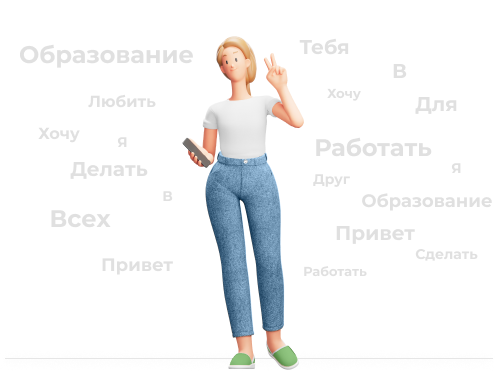
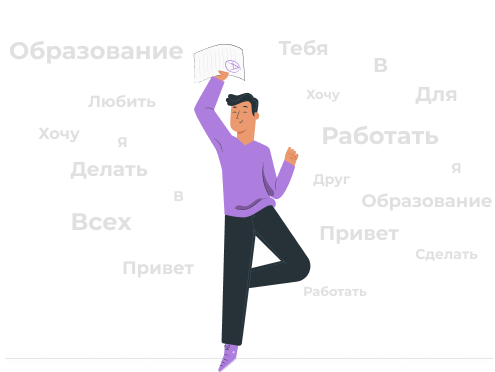
feat: for urfu stand

diff --git a/src/core/data.ts b/src/core/data.ts
@@ -3,13 +3,7 @@ import HelloSignVideo from "../assets/video/ExhibitionStand/Привет.mp4"
 import ISignVideo from "../assets/video/ExhibitionStand/Я.mp4"
 import LoveSignVideo from "../assets/video/ExhibitionStand/Люблю.mp4"
 import YouSignVideo from "../assets/video/ExhibitionStand/Тебя.mp4"
-import WantSignVideo from "../assets/video/ExhibitionStand/Хочу.mp4"
-import WorkSignVideo from "../assets/video/ExhibitionStand/Работаю.mp4"
-import InSignVideo from "../assets/video/ExhibitionStand/В.mp4"
-import AllSignVideo from "../assets/video/ExhibitionStand/Всех.mp4"
-import EduSignVideo from "../assets/video/ExhibitionStand/Образование.mp4"
-import DoSignVideo from "../assets/video/ExhibitionStand/Сделать.mp4"
-import AccessSignVideo from "../assets/video/ExhibitionStand/Доступный.mp4"
+import FriendSignVideo from "../assets/video/ExhibitionStand/Друг.mp4"
 
 export type taskType = "SelectWord" | "SelectGIFByWord" | "MatchWordAndGIF"
 
@@ -28,75 +22,32 @@ export const StartThemeWords: Word[] = [
         gifSource: HelloSignVideo,
     },
     {
-        id: 2,
+        id: 1,
         text: "Я",
         recognitionText: 'я',
         // gifSource: "https://ren-design.ru/api/teaching-rsl/1.0/video/I.mp4",
         gifSource: ISignVideo,
     },
     {
-        id: 3,
+        id: 2,
         text: "Любить",
         recognitionText: 'любовь',
         // gifSource: "https://ren-design.ru/api/teaching-rsl/1.0/video/Love.mp4",
         gifSource: LoveSignVideo,
     },
     {
-        id: 4,
+        id: 3,
         text: "Тебя",
         recognitionText: 'ты',
         // gifSource: "https://ren-design.ru/api/teaching-rsl/1.0/video/You.mp4",
         gifSource: YouSignVideo,
     },
-
     {
-        id: 5,
-        text: "Хочу",
-        recognitionText: 'хотеть',
+        id: 4,
+        text: "Друг",
+        recognitionText: 'друг',
         // gifSource: "https://ren-design.ru/api/teaching-rsl/1.0/video/You.mp4",
-        gifSource: WantSignVideo,
-    },
-    {
-        id: 6,
-        text: "Сделать",
-        recognitionText: 'делать',
-        // gifSource: "https://ren-design.ru/api/teaching-rsl/1.0/video/You.mp4",
-        gifSource: DoSignVideo,
-    },
-    {
-        id: 7,
-        text: "Образование",
-        recognitionText: 'образовать',
-        // gifSource: "https://ren-design.ru/api/teaching-rsl/1.0/video/You.mp4",
-        gifSource: EduSignVideo,
-    },
-    {
-        id: 9,
-        text: "Всех",
-        recognitionText: 'всё',
-        // gifSource: "https://ren-design.ru/api/teaching-rsl/1.0/video/You.mp4",
-        gifSource: AllSignVideo,
-    },
-    {
-        id: 10,
-        text: "Работаю",
-        recognitionText: 'работать',
-        // gifSource: "https://ren-design.ru/api/teaching-rsl/1.0/video/You.mp4",
-        gifSource: WorkSignVideo,
-    },
-    {
-        id: 11,
-        text: "В",
-        recognitionText: 'в',
-        // gifSource: "https://ren-design.ru/api/teaching-rsl/1.0/video/You.mp4",
-        gifSource: InSignVideo,
-    },
-    {
-        id: 12,
-        text: "Доступным",
-        recognitionText: 'открывать',
-        // gifSource: "https://ren-design.ru/api/teaching-rsl/1.0/video/You.mp4",
-        gifSource: AccessSignVideo,
+        gifSource: FriendSignVideo,
     },
 ]
 
@@ -104,17 +55,7 @@ export const StartThemeWords: Word[] = [
 export const StartThemeSentence: Sentence[] = [
     {
         id: 0,
-            words: [0, 2, 10, 11, 7],
-        text: "Привет, я работаю в образовании."
-    },
-    {
-        id: 1,
-        words: [2, 5, 6, 7, 12, 9],
-        text: "Я хочу сделать образование доступным всем."
-    },
-    {
-        id: 2,
-        words: [2, 4, 3],
-        text: "Я тебя люблю."
-    },
+            words: [0, 1, 2, 3, 4],
+        text: "Привет, я люблю тебя, друг."
+    }
 ]

diff --git a/src/features/home/pages/AFKPage/AFKPage.tsx b/src/features/home/pages/AFKPage/AFKPage.tsx
@@ -5,36 +5,29 @@ import {Typography} from "../../../../components/Typography";
 import {typedMemo} from "../../../../core/utils/typedMemo";
 import LogoStand from '../../../../assets/images/LogoStandMonochrome.svg'
 import {Facts} from "../../components/facts";
+import {Gradient} from "../../../../components/Gradient/Gradient";
 import RightClicker from "../../../../assets/images/RightClicker.svg";
-import Gradient from '../../../../assets/video/gradient2.mp4'
 
 export const AFKPage: FC = typedMemo(function AFKFactsPage() {
     const navigate = useNavigate();
-    localStorage.setItem("Teaching-RSL-correct-words", "[]")
 
-    const toLearningStart = useCallback(() => navigate("/learning/start"), [navigate])
+    const toLearning = useCallback(() => navigate("/learning/start"), [navigate])
 
     const handleKeydown = useCallback((event: KeyboardEvent) => {
         if (event.key === "ArrowRight") {
             event.preventDefault();
-            toLearningStart()
+            toLearning()
         }
-    }, [toLearningStart])
+    }, [])
 
     useEffect(() => {
         document.addEventListener('keydown', handleKeydown)
         return () => document.removeEventListener('keydown', handleKeydown)
-    }, [handleKeydown]);
+    }, []);
 
     return (
-        <div className={styles.afkPage} onClick={toLearningStart}>
-            <video
-                className={styles.afkPage__gradient}
-                src={Gradient}
-                autoPlay
-                loop
-                muted
-            />
+        <div className={styles.afkPage} onClick={toLearning}>
+            <Gradient className={styles.afkPage__gradient}/>
 
             <img className={styles.afkPage__logo} src={LogoStand} alt="Логотип"/>
             <div className={styles.afkPage__factsContainer}>

diff --git a/src/App.css b/src/App.css
@@ -1,50 +1,28 @@
 @font-face {
-    font-family: OpenSans;
-    src: url('assets/fonts/OpenSans-ExtraBold.ttf');
-    font-weight: 800;
-    font-display: fallback;
-}
-
-@font-face {
-    font-family: OpenSans;
-    src: url('assets/fonts/OpenSans-Bold.ttf');
-    font-weight: 700;
-    font-display: fallback;
-}
-
-@font-face {
-    font-family: OpenSans;
-    src: url('assets/fonts/OpenSans-SemiBold.ttf');
+    font-family: VerdanaPro;
+    src: url('assets/fonts/VerdanaPro-Bold.ttf');
     font-weight: 600;
     font-display: fallback;
 }
 
 @font-face {
-    font-family: OpenSans;
-    src: url('assets/fonts/OpenSans-Medium.ttf');
+    font-family: VerdanaPro;
+    src: url('assets/fonts/VerdanaPro-SemiBold.ttf');
     font-weight: 500;
     font-display: fallback;
 }
 
 @font-face {
-    font-family: OpenSans;
-    src: url('assets/fonts/OpenSans-Regular.ttf');
+    font-family: VerdanaPro;
+    src: url('assets/fonts/VerdanaPro-Regular.ttf');
     font-weight: 400;
     font-display: fallback;
 }
 
 @font-face {
-    font-family: OpenSans;
-    src: url('assets/fonts/OpenSans-Light.ttf');
+    font-family: VerdanaPro;
+    src: url('assets/fonts/VerdanaPro-Light.ttf');
     font-weight: 300;
     font-display: fallback;
 }
-
-@font-face {
-    font-family: Montserrat;
-    src: url('assets/fonts/Montserrat.ttf');
-    font-display: swap;
-}
-
-
 

diff --git a/src/features/training/pages/TrainingTaskPage/TrainingTaskPage.tsx b/src/features/training/pages/TrainingTaskPage/TrainingTaskPage.tsx
@@ -4,15 +4,12 @@ import styles from "./TrainingTaskPage.module.css";
 import {Page} from "../../../../components/Page";
 import Logo from "../../../../assets/images/LogoStand.svg"
 import {useNavigate} from "react-router-dom";
-import {ProgressBar} from "../../../../components/ProgressBar";
 import {PageContent} from "../../../../components/PageContent";
-import {StartThemeSentence, StartThemeWords} from "../../../../core/data";
+import {StartThemeWords} from "../../../../core/data";
 import {shuffleArray} from "../../../../core/utils/shuffleArray";
 import {ModelWarning} from "../../components/ModelWarning/ModelWarning";
 import {socket} from "../../../../core/utils/connectToModal";
 import {useIdle} from "@mantine/hooks";
-import {RecognitionSentenceBlock} from "../../components/RecognitionSentenceBlock";
-import {Card} from "../../../../components/Card";
 import {TaskHeader} from "../../../../components/TaskHeader";
 import {RecognitionWordBlock} from "../../components/RecognitionWordBlock";
 

diff --git a/src/features/home/components/fact/Fact.module.css b/src/features/home/components/fact/Fact.module.css
@@ -37,29 +37,33 @@
     white-space: pre-line;
 }
 
+
 .fact__blue {
-    background: rgba(0, 177, 255, 0.6);
+    background: #BFDBFE;
 }
 
 .fact__blue .fact__title,
-.fact__blue .fact__description {
-    color: white;
+.fact__blue .fact__description,
+.fact__blue .fact__source {
+    color: #1E3A8A;
 }
 
 .fact__grape {
-    background: rgba(145, 82, 173, 0.6);
+    background: #EDE9FE;
 }
 
 .fact__grape .fact__title,
-.fact__grape .fact__description {
-    color: white;
+.fact__grape .fact__description,
+.fact__grape .fact__source {
+    color: #581C87;
 }
 
 .fact__green {
-    background: rgba(0, 236, 200, 0.4);
+    background: #CCFBF1;
 }
 
 .fact__green .fact__title,
-.fact__green .fact__description {
-    color: white;
+.fact__green .fact__description,
+.fact__green .fact__source {
+    color: #115E59;
 }

diff --git a/src/features/learning/components/StartLearning/StartLearning.tsx b/src/features/learning/components/StartLearning/StartLearning.tsx
@@ -1,11 +1,11 @@
-import React, {FC, useCallback, useEffect} from "react";
+import React, {FC} from "react";
 import {typedMemo} from "../../../../core/utils/typedMemo";
 import {Card} from "../../../../components/Card";
 import styles from "./StartLearning.module.css";
 import {Typography} from "../../../../components/Typography";
 import {Button} from "../../../../components/Button";
 import RightClicker from "../../../../assets/images/RightClicker.svg";
-import StartLearningImage from "../../../../assets/images/StartLearning.png";
+import StartLearningImage from "../../../../assets/images/StartLearning.svg";
 
 type Props = {
     onStart: () => void

diff --git a/src/features/training/pages/TrainingResultPage/TrainingResultPage.tsx b/src/features/training/pages/TrainingResultPage/TrainingResultPage.tsx
@@ -15,7 +15,7 @@ import {StartThemeWords} from "../../../../core/data";
 import {ByPinCode} from "../../../../components/ByPinCode";
 import {useLottie} from "lottie-react";
 import leavesAnimation from "../../../../assets/images/leaves.json"
-import PersonImage from "../../../../assets/images/Person.png"
+import PersonImage from "../../../../assets/images/Persona.svg"
 
 export const TrainingResultPage: FC = typedMemo(function TrainingPage() {
     const { View, play } = useLottie({

diff --git a/src/components/Gradient/Gradient.js b/src/components/Gradient/Gradient.js
@@ -3,10 +3,10 @@ import * as THREE from 'three';
 import {Canvas, useFrame} from '@react-three/fiber';
 
 const colors = [
-    [119, 193, 238],
-    [170, 237, 225],
-    [126, 83, 169],
-    [105, 194, 224],
+    [11, 36, 71],
+    [25, 55, 109],
+    [87, 108, 188],
+    [66, 125, 157],
 ]
 
 const TextureMesh = () => {

diff --git a/src/features/home/pages/AFKPage/AFKPage.module.css b/src/features/home/pages/AFKPage/AFKPage.module.css
@@ -16,13 +16,13 @@
 }
 
 .afkPage__gradient {
-    position: absolute;
+    position: absolute !important;
     top: 0;
     bottom: 0;
-    overflow: hidden;
+    /*overflow: hidden;*/
     width: 100vw;
     height: 100vh;
-    object-fit: cover;
+    /*object-fit: cover;*/
     z-index: 0;
 }
 
